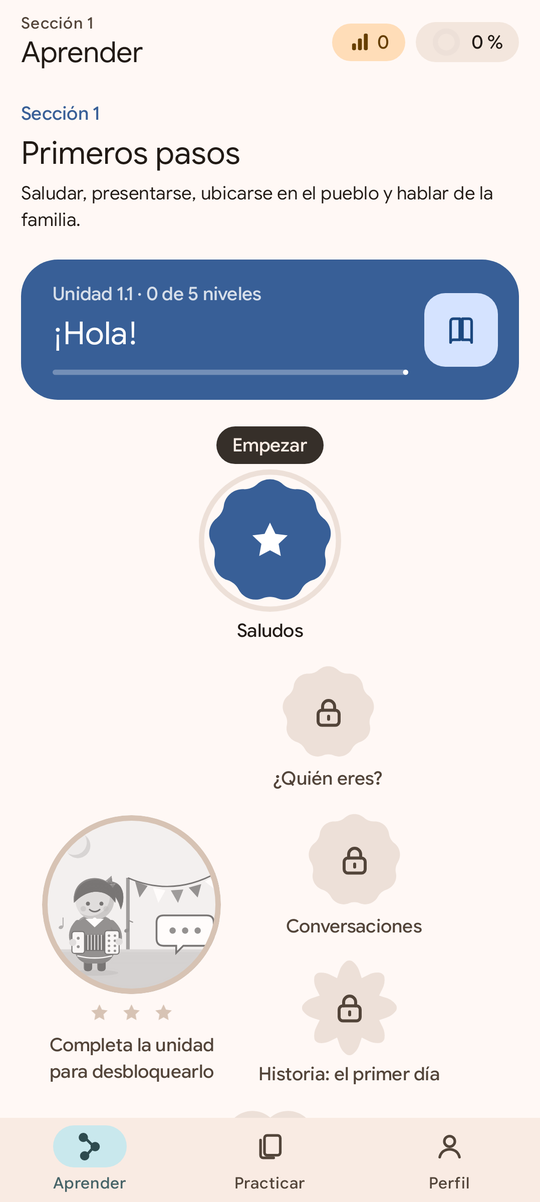
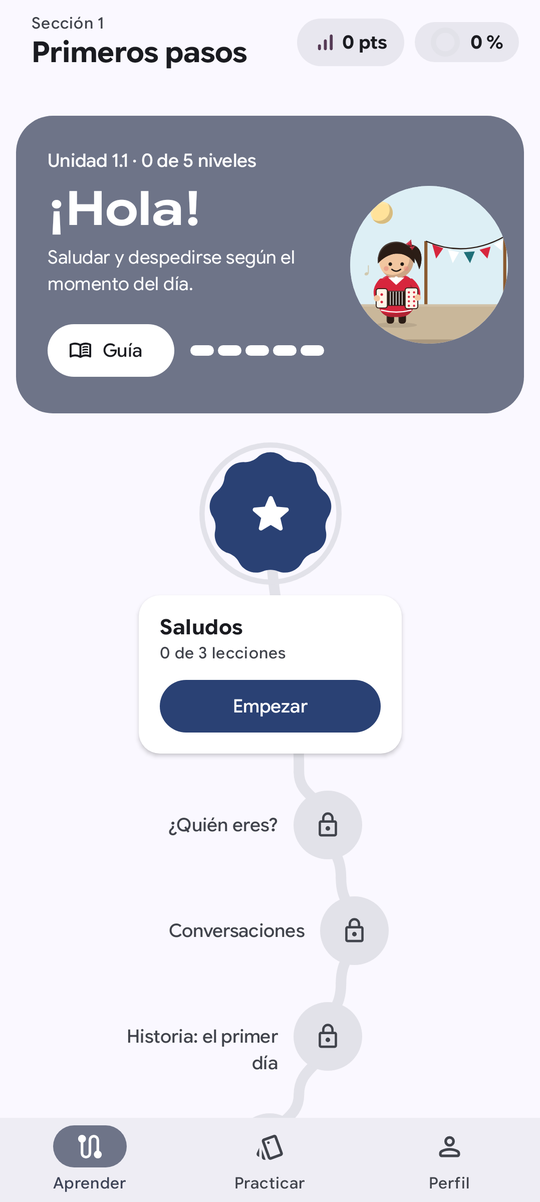
docs: refresh the README screenshots after redesign B
The README showed the app before redesign B. Its screenshots are regenerated
from the current reference screenshots, a tablet one joins them, and "Built
with care" mentions the system's colours and the tablet layout.

Claude-Session: https://claude.ai/code/session_01J4uN62j813d8xDKan61uMx

diff --git a/tools/readme_images.py b/tools/readme_images.py
@@ -4,7 +4,7 @@
     python3 tools/readme_images.py
 
 * ``docs/images/screenshots/<name>.png``: the Roborazzi reference screenshots listed in
-  ``SCREENSHOTS``, scaled to 540 px wide. Re-run it after the references are re-recorded (the
+  ``SCREENSHOTS``, scaled to 540 px wide (``WIDE`` ones, in landscape, to 1080 px). Re-run it after the references are re-recorded (the
   *UI tests* workflow with ``record_screenshots``) so the README shows the current app.
 * ``docs/images/cast.png``: the four cast members in their *Hola* pose, from
   ``tools/design/art/cast/``.
@@ -33,7 +33,9 @@ SCREENSHOTS = {
     "practice": "feature/practice/src/test/screenshots/practice_hub.png",
     "profile": "feature/profile/src/test/screenshots/profile.png",
     "path-dark": "feature/path/src/test/screenshots/path_dark.png",
+    "tablet": "app/src/test/screenshots/app_path_tablet.png",
 }
+WIDE = {"tablet"}
 CAST = ["ane", "mikel", "maite", "unai"]
 CAST_HEIGHT = 280
 
@@ -46,7 +48,8 @@ def screenshots() -> None:
             stale.unlink()
     for name, source in SCREENSHOTS.items():
         image = Image.open(ROOT / source).convert("RGB")
-        image = image.resize((WIDTH, round(image.height * WIDTH / image.width)), Image.LANCZOS)
+        width = WIDTH * 2 if name in WIDE else WIDTH
+        image = image.resize((width, round(image.height * width / image.width)), Image.LANCZOS)
         image.save(target / f"{name}.png", optimize=True)
         print(f"docs/images/screenshots/{name}.png <- {source}")
 

diff --git a/README.md b/README.md
@@ -37,6 +37,9 @@ trikitilari, **Mikel** the aizkolari, **Maite** the amona and **Unai** the pelot
   <img src="docs/images/screenshots/profile.png" alt="Profile with score and daily goal" width="200">
   <img src="docs/images/screenshots/path-dark.png" alt="Learning path in dark theme" width="200">
 </p>
+<p align="center">
+  <img src="docs/images/screenshots/tablet.png" alt="On a tablet, the path with the current unit beside it" width="640">
+</p>
 
 ## What's inside
 
@@ -57,8 +60,9 @@ trikitilari, **Mikel** the aizkolari, **Maite** the amona and **Unai** the pelot
 - **Motivation without pressure**: a daily goal in minutes, achievements, a score on the CEFR
   A1 scale (0–29) and a star challenge in every unit: 30 hard questions, one to three stars. No
   lives, no streaks to lose, no ads, no account.
-- **Built with care**: Material 3 Expressive, light and dark themes, TalkBack, large fonts and
-  tablets; interface in Spanish and Basque.
+- **Built with care**: Material 3 Expressive, the system's colours (Material You) or Hitz's own,
+  light and dark themes, TalkBack, large fonts and tablets (with the current unit beside the
+  path); interface in Spanish and Basque.
 - **Private**: everything stays on the phone. The only network request is a daily check for a new
   version, which can be turned off.
 
